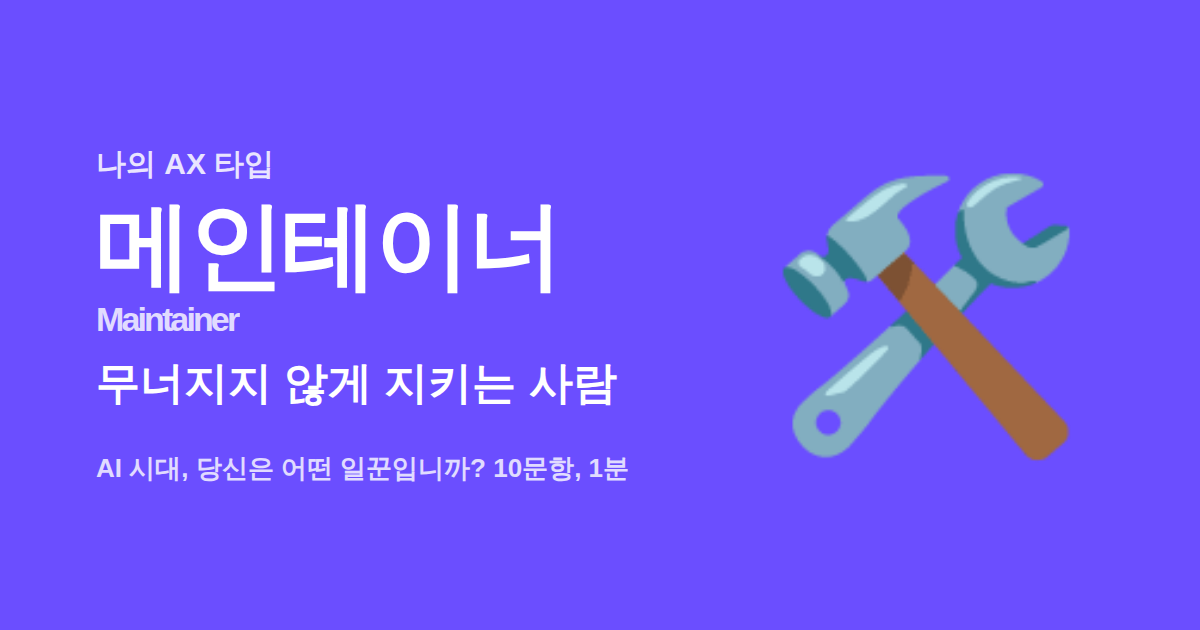
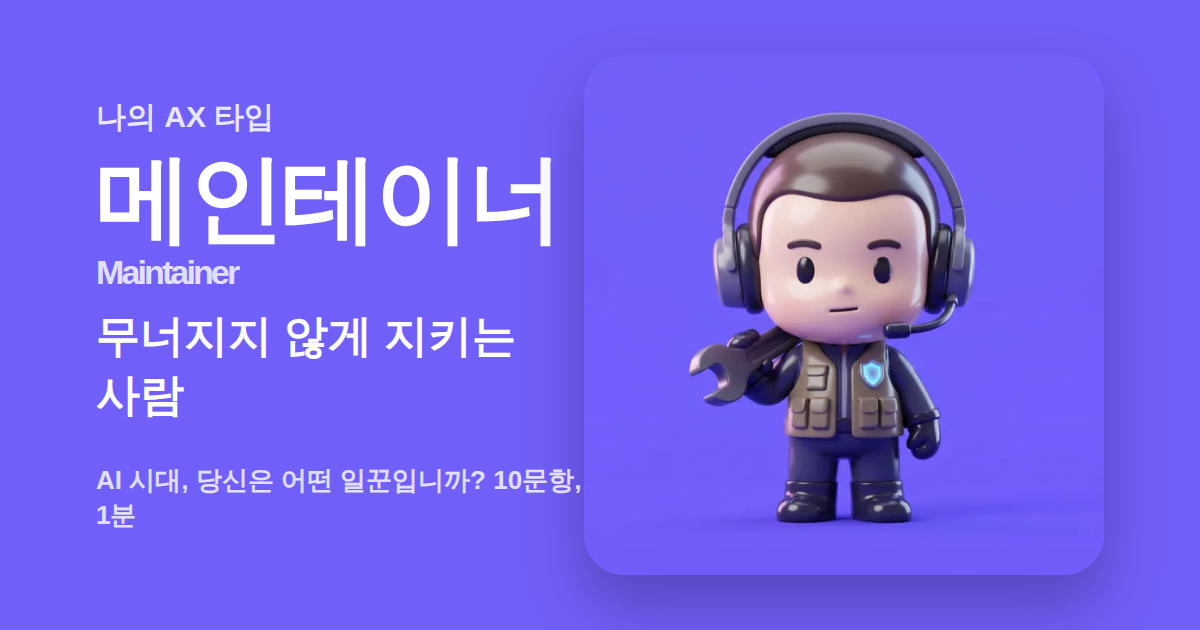
타입별 3D 블라인드 박스 피규어 아트
- assets/<id>.webp 다섯 장(640px). 랜딩 라인업, 결과·공유받은 카드, 저장 카드, OG 이미지에 적용. 기본 OG 는 다섯 장 나열
- data.js 타입 색을 각 이미지의 배경 샘플값으로 교체해 카드와 캐릭터가 한 장으로 이어지게
- check 가 assets/<id>.webp 존재를 확인. 생성 프롬프트·모델·전송 방법은 findings.md, 비주얼 원칙은 docs/DESIGN.md
- 디자인 캔버스 아트보드에 이미지와 새 색 반영

Claude-Session: https://claude.ai/code/session_012pQtpcVuTUKzRw19cfW1pU

Changed region(s): [[0.0617, 0.181, 0.9558, 0.9952], [0.0617, 0.1508, 0.2467, 0.2111]]

diff --git a/design/Main.dc.html b/design/Main.dc.html
@@ -18,7 +18,7 @@
 
   <section style="border-radius: 18px; padding: 28px 24px 24px; background: {{accent}}; color: #1a1200; display: flex; flex-direction: column; gap: 6px;">
     <p style="font-size: 13px; font-weight: 700; opacity: 0.85;">나의 AX 타입</p>
-    <div style="font-size: 64px; line-height: 1; margin: 6px 0 4px;">💡</div>
+    <img src="prototyper.webp" alt="프로토타이퍼 피규어" style="width: 100%; max-width: 300px; aspect-ratio: 1; align-self: center; border-radius: 20px; display: block; margin: 4px 0 10px;">
     <h1 style="font-size: 34px; font-weight: 900; letter-spacing: -0.02em; line-height: 1.25;">프로토타이퍼<span style="font-size: 16px; font-weight: 700; opacity: 0.8; margin-left: 6px;">Prototyper</span></h1>
     <p style="font-size: 20px; font-weight: 700; line-height: 1.25;">아이디어를 찍어내는 사람</p>
     <p style="font-size: 15px; opacity: 0.92; margin-top: 8px; word-break: keep-all;">당신에게 가장 비싼 건 시간이 아니라, 시도하지 않은 아이디어입니다.</p>
@@ -79,22 +79,22 @@
       </div>
       <div style="display: grid; grid-template-columns: 112px 1fr 36px; align-items: center; gap: 10px; font-size: 13px; font-weight: 700;">
         <span>📈 그로워</span>
-        <div style="height: 8px; background: #f6f5f1; border-radius: 999px; overflow: hidden;"><div style="height: 8px; width: 20%; background: #E5397B; border-radius: 999px;"></div></div>
+        <div style="height: 8px; background: #f6f5f1; border-radius: 999px; overflow: hidden;"><div style="height: 8px; width: 20%; background: #EE447C; border-radius: 999px;"></div></div>
         <span style="text-align: right; color: #6b6b76; font-weight: 500;">20%</span>
       </div>
       <div style="display: grid; grid-template-columns: 112px 1fr 36px; align-items: center; gap: 10px; font-size: 13px; font-weight: 700;">
         <span>🚀 빌더</span>
-        <div style="height: 8px; background: #f6f5f1; border-radius: 999px; overflow: hidden;"><div style="height: 8px; width: 17%; background: #2F6BFF; border-radius: 999px;"></div></div>
+        <div style="height: 8px; background: #f6f5f1; border-radius: 999px; overflow: hidden;"><div style="height: 8px; width: 17%; background: #306EFE; border-radius: 999px;"></div></div>
         <span style="text-align: right; color: #6b6b76; font-weight: 500;">17%</span>
       </div>
       <div style="display: grid; grid-template-columns: 112px 1fr 36px; align-items: center; gap: 10px; font-size: 13px; font-weight: 700;">
         <span>🧹 스위퍼</span>
-        <div style="height: 8px; background: #f6f5f1; border-radius: 999px; overflow: hidden;"><div style="height: 8px; width: 13%; background: #16A34A; border-radius: 999px;"></div></div>
+        <div style="height: 8px; background: #f6f5f1; border-radius: 999px; overflow: hidden;"><div style="height: 8px; width: 13%; background: #1E994F; border-radius: 999px;"></div></div>
         <span style="text-align: right; color: #6b6b76; font-weight: 500;">13%</span>
       </div>
       <div style="display: grid; grid-template-columns: 112px 1fr 36px; align-items: center; gap: 10px; font-size: 13px; font-weight: 700;">
         <span>🛠 메인테이너</span>
-        <div style="height: 8px; background: #f6f5f1; border-radius: 999px; overflow: hidden;"><div style="height: 8px; width: 3%; background: #6B4EFF; border-radius: 999px;"></div></div>
+        <div style="height: 8px; background: #f6f5f1; border-radius: 999px; overflow: hidden;"><div style="height: 8px; width: 3%; background: #715FF9; border-radius: 999px;"></div></div>
         <span style="text-align: right; color: #6b6b76; font-weight: 500;">3%</span>
       </div>
     </div>
@@ -105,10 +105,10 @@
   <p style="font-size: 12px; color: #6b6b76;">재미로 보는 테스트입니다. 5가지 아키타입 출처: <a href="#">Boris Cherny, X (2026-06)</a></p>
 </div>
 </x-dc>
-<script data-dc-script data-props='{"accent":{"editor":"color","default":"#F5B301","options":["#F5B301","#2F6BFF","#16A34A","#E5397B","#6B4EFF"],"section":"타입 색"},"$preview":{"width":390,"height":1960}}'>
+<script data-dc-script data-props='{"accent":{"editor":"color","default":"#DF950D","options":["#DF950D","#306EFE","#1E994F","#EE447C","#715FF9"],"section":"타입 색"},"$preview":{"width":390,"height":1960}}'>
 class Component extends DCLogic {
   renderVals() {
-    return { accent: this.props.accent ?? '#F5B301' };
+    return { accent: this.props.accent ?? '#DF950D' };
   }
 }
 </script>

diff --git a/design/Landing.dc.html b/design/Landing.dc.html
@@ -19,12 +19,12 @@
   <h1 style="font-size: 40px; font-weight: 900; letter-spacing: -0.02em; line-height: 1.25;">AX 타입 테스트</h1>
   <p style="font-size: 18px; font-weight: 700;">AI 시대, 당신은 어떤 일꾼입니까?</p>
   <p style="color: #6b6b76; font-size: 15px; word-break: keep-all;">Claude Code를 만든 Boris Cherny가 말한 5가지 아키타입. 10문항, 1분.</p>
-  <div style="display: flex; flex-wrap: wrap; gap: 8px;">
-    <span style="display: inline-flex; align-items: center; gap: 6px; padding: 8px 12px; border-radius: 999px; background: #ffffff; border: 1px solid #e6e4dd; font-size: 14px; font-weight: 700;">💡 프로토타이퍼</span>
-    <span style="display: inline-flex; align-items: center; gap: 6px; padding: 8px 12px; border-radius: 999px; background: #ffffff; border: 1px solid #e6e4dd; font-size: 14px; font-weight: 700;">🚀 빌더</span>
-    <span style="display: inline-flex; align-items: center; gap: 6px; padding: 8px 12px; border-radius: 999px; background: #ffffff; border: 1px solid #e6e4dd; font-size: 14px; font-weight: 700;">🧹 스위퍼</span>
-    <span style="display: inline-flex; align-items: center; gap: 6px; padding: 8px 12px; border-radius: 999px; background: #ffffff; border: 1px solid #e6e4dd; font-size: 14px; font-weight: 700;">📈 그로워</span>
-    <span style="display: inline-flex; align-items: center; gap: 6px; padding: 8px 12px; border-radius: 999px; background: #ffffff; border: 1px solid #e6e4dd; font-size: 14px; font-weight: 700;">🛠 메인테이너</span>
+  <div style="display: grid; grid-template-columns: repeat(5, minmax(0, 1fr)); gap: 8px;">
+    <figure style="margin: 0; display: flex; flex-direction: column; align-items: center; gap: 6px;"><img src="prototyper.webp" alt="프로토타이퍼 피규어" style="width: 100%; aspect-ratio: 1; border-radius: 16px; display: block; box-shadow: 0 6px 18px rgba(0,0,0,0.10);"><figcaption style="font-size: 11px; font-weight: 700; color: #6b6b76; white-space: nowrap;">💡 프로토타이퍼</figcaption></figure>
+    <figure style="margin: 0; display: flex; flex-direction: column; align-items: center; gap: 6px;"><img src="builder.webp" alt="빌더 피규어" style="width: 100%; aspect-ratio: 1; border-radius: 16px; display: block; box-shadow: 0 6px 18px rgba(0,0,0,0.10);"><figcaption style="font-size: 11px; font-weight: 700; color: #6b6b76; white-space: nowrap;">🚀 빌더</figcaption></figure>
+    <figure style="margin: 0; display: flex; flex-direction: column; align-items: center; gap: 6px;"><img src="sweeper.webp" alt="스위퍼 피규어" style="width: 100%; aspect-ratio: 1; border-radius: 16px; display: block; box-shadow: 0 6px 18px rgba(0,0,0,0.10);"><figcaption style="font-size: 11px; font-weight: 700; color: #6b6b76; white-space: nowrap;">🧹 스위퍼</figcaption></figure>
+    <figure style="margin: 0; display: flex; flex-direction: column; align-items: center; gap: 6px;"><img src="grower.webp" alt="그로워 피규어" style="width: 100%; aspect-ratio: 1; border-radius: 16px; display: block; box-shadow: 0 6px 18px rgba(0,0,0,0.10);"><figcaption style="font-size: 11px; font-weight: 700; color: #6b6b76; white-space: nowrap;">📈 그로워</figcaption></figure>
+    <figure style="margin: 0; display: flex; flex-direction: column; align-items: center; gap: 6px;"><img src="maintainer.webp" alt="메인테이너 피규어" style="width: 100%; aspect-ratio: 1; border-radius: 16px; display: block; box-shadow: 0 6px 18px rgba(0,0,0,0.10);"><figcaption style="font-size: 11px; font-weight: 700; color: #6b6b76; white-space: nowrap;">🛠 메인테이너</figcaption></figure>
   </div>
   <div style="display: flex; align-items: center; justify-content: center; padding: 16px 20px; border-radius: 14px; background: #16161a; color: #ffffff; font-size: 17px; font-weight: 700;">테스트 시작 →</div>
   <p style="font-size: 12px; color: #6b6b76;">재미로 보는 테스트입니다. 5가지 아키타입 출처: <a href="#">Boris Cherny, X (2026-06)</a></p>

diff --git a/app.js b/app.js
@@ -8,6 +8,7 @@ const typeOf = (id) => (Object.hasOwn(byId, id) ? byId[id] : null);
 // 배포 경로에 상관없이 동작하도록 현재 주소에서 기준 경로를 얻는다. (예: https://host/AXTYPE/)
 const BASE = location.origin + location.pathname.replace(/[^/]*$/, '');
 const resultUrl = (id) => `${BASE}r/${id}/`;
+const artUrl = (id) => `assets/${id}.webp`; // 타입별 캐릭터. 파일명은 타입 id 로 정해진다
 
 const state = { answers: [] };
 
@@ -37,8 +38,8 @@ function landing() {
       <h1>${esc(SITE.name)}</h1>
       <p class="lead">${esc(SITE.tagline)}</p>
       <p class="desc">${esc(SITE.description)}</p>
-      <div class="chips">
-        ${TYPES.map((t) => `<span class="chip">${t.emoji} ${esc(t.ko)}</span>`).join('')}
+      <div class="lineup">
+        ${TYPES.map((t) => `<figure class="figure"><img src="${artUrl(t.id)}" alt="${esc(t.ko)} 피규어" loading="lazy"><figcaption>${t.emoji} ${esc(t.ko)}</figcaption></figure>`).join('')}
       </div>
       <button class="btn" id="start">테스트 시작 →</button>
       <p class="footnote">재미로 보는 테스트입니다. 5가지 아키타입 출처: <a href="${SITE.source.url}" target="_blank" rel="noopener">${esc(SITE.source.label)}</a></p>
@@ -81,7 +82,7 @@ function typeCard(t, { label, sub } = {}) {
   return `
     <section class="result-card" data-ink="${dark ? 'dark' : 'light'}" style="--type-color:${t.color};--type-ink:${t.ink}">
       <p class="label">${esc(label)}</p>
-      <div class="emoji">${t.emoji}</div>
+      <img class="art" src="${artUrl(t.id)}" alt="${esc(t.ko)} 피규어">
       <h1 class="name">${esc(t.ko)}<small>${esc(t.en)}</small></h1>
       <p class="headline">${esc(t.headline)}</p>
       <p class="tagline">${esc(t.tagline)}</p>
@@ -177,7 +178,13 @@ function shared(t) {
 }
 
 /* ---------- 결과 카드 이미지 (1080×1350, 4:5) ---------- */
-function saveCard(main, sub) {
+function loadArt(id) {
+  return new Promise((ok, no) => { const im = new Image(); im.onload = () => ok(im); im.onerror = no; im.src = artUrl(id); });
+}
+
+async function saveCard(main, sub) {
+  let art = null;
+  try { art = await loadArt(main.id); } catch { /* 아트가 없으면 이모지로 */ }
   const W = 1080, H = 1350;
   const c = document.createElement('canvas');
   c.width = W; c.height = H;
@@ -191,34 +198,39 @@ function saveCard(main, sub) {
   ctx.textAlign = 'center';
   ctx.font = font(700, 36);
   ctx.globalAlpha = .85;
-  ctx.fillText('나의 AX 타입', W / 2, 190);
+  ctx.fillText('나의 AX 타입', W / 2, 160);
   ctx.globalAlpha = 1;
 
-  ctx.font = font(400, 260);
-  ctx.fillText(main.emoji, W / 2, 520);
+  if (art) {
+    const size = 560;
+    ctx.drawImage(art, (W - size) / 2, 230, size, size);
+  } else {
+    ctx.font = font(400, 260);
+    ctx.fillText(main.emoji, W / 2, 520);
+  }
 
   ctx.font = font(900, 104);
-  ctx.fillText(main.ko, W / 2, 690);
+  ctx.fillText(main.ko, W / 2, 900);
   ctx.font = font(700, 40);
   ctx.globalAlpha = .8;
-  ctx.fillText(main.en, W / 2, 750);
+  ctx.fillText(main.en, W / 2, 960);
   ctx.globalAlpha = 1;
 
   ctx.font = font(700, 54);
-  ctx.fillText(main.headline, W / 2, 870);
+  ctx.fillText(main.headline, W / 2, 1050);
 
   if (sub) {
     ctx.font = font(700, 36);
     ctx.globalAlpha = .9;
-    ctx.fillText(`서브 타입 · ${sub.emoji} ${sub.ko}`, W / 2, 960);
+    ctx.fillText(`서브 타입 · ${sub.emoji} ${sub.ko}`, W / 2, 1120);
     ctx.globalAlpha = 1;
   }
 
   ctx.font = font(700, 34);
   ctx.globalAlpha = .85;
-  ctx.fillText(SITE.tagline, W / 2, 1190);
+  ctx.fillText(SITE.tagline, W / 2, 1230);
   ctx.font = font(400, 30);
-  ctx.fillText(BASE.replace(/^https?:\/\//, '').replace(/\/$/, ''), W / 2, 1250);
+  ctx.fillText(BASE.replace(/^https?:\/\//, '').replace(/\/$/, ''), W / 2, 1285);
   ctx.globalAlpha = 1;
 
   c.toBlob((blob) => {

diff --git a/data.js b/data.js
@@ -17,13 +17,14 @@ export const SITE = {
 };
 
 // 순서는 제품 수명주기 순: 아이디어 → 출시 → 정리 → 성장 → 운영.
+// color 는 assets/<id>.webp 의 배경색과 같아야 카드와 캐릭터가 한 장처럼 보인다. 아트를 다시 만들면 여기도 맞춘다.
 export const TYPES = [
   {
     id: 'prototyper',
     en: 'Prototyper',
     ko: '프로토타이퍼',
     emoji: '💡',
-    color: '#F5B301',
+    color: '#DF950D',
     ink: '#1a1200',
     headline: '아이디어를 찍어내는 사람',
     tagline: '당신에게 가장 비싼 건 시간이 아니라, 시도하지 않은 아이디어입니다.',
@@ -44,7 +45,7 @@ export const TYPES = [
     en: 'Builder',
     ko: '빌더',
     emoji: '🚀',
-    color: '#2F6BFF',
+    color: '#306EFE',
     ink: '#ffffff',
     headline: '아이디어를 진짜로 만드는 사람',
     tagline: '프로토타입과 제품 사이의 거리를 당신이 가장 빨리 지웁니다.',
@@ -65,7 +66,7 @@ export const TYPES = [
     en: 'Sweeper',
     ko: '스위퍼',
     emoji: '🧹',
-    color: '#16A34A',
+    color: '#1E994F',
     ink: '#ffffff',
     headline: '덜어내서 좋아지게 만드는 사람',
     tagline: '당신에게 최고의 결과물은 더한 것보다 뺀 것이 많은 결과물입니다.',
@@ -86,7 +87,7 @@ export const TYPES = [
     en: 'Grower',
     ko: '그로워',
     emoji: '📈',
-    color: '#E5397B',
+    color: '#EE447C',
     ink: '#ffffff',
     headline: '만든 걸 사랑받게 만드는 사람',
     tagline: '출시는 끝이 아니라, 당신의 시작입니다.',
@@ -107,7 +108,7 @@ export const TYPES = [
     en: 'Maintainer',
     ko: '메인테이너',
     emoji: '🛠',
-    color: '#6B4EFF',
+    color: '#715FF9',
     ink: '#ffffff',
     headline: '무너지지 않게 지키는 사람',
     tagline: '아무 일도 안 일어난 하루가, 당신이 가장 잘한 날입니다.',

diff --git a/design/Shared.dc.html b/design/Shared.dc.html
@@ -16,9 +16,9 @@
 </helmet>
 <div style="width: 390px; min-height: 844px; background: #f6f5f1; padding: 24px 20px 56px; box-sizing: border-box; display: flex; flex-direction: column; gap: 20px;">
 
-  <section style="border-radius: 18px; padding: 28px 24px 24px; background: #16A34A; color: #ffffff; display: flex; flex-direction: column; gap: 6px;">
+  <section style="border-radius: 18px; padding: 28px 24px 24px; background: #1E994F; color: #ffffff; display: flex; flex-direction: column; gap: 6px;">
     <p style="font-size: 13px; font-weight: 700; opacity: 0.85;">공유받은 AX 타입</p>
-    <div style="font-size: 64px; line-height: 1; margin: 6px 0 4px;">🧹</div>
+    <img src="sweeper.webp" alt="스위퍼 피규어" style="width: 100%; max-width: 300px; aspect-ratio: 1; align-self: center; border-radius: 20px; display: block; margin: 4px 0 10px;">
     <h1 style="font-size: 34px; font-weight: 900; letter-spacing: -0.02em; line-height: 1.25;">스위퍼<span style="font-size: 16px; font-weight: 700; opacity: 0.8; margin-left: 6px;">Sweeper</span></h1>
     <p style="font-size: 20px; font-weight: 700; line-height: 1.25;">덜어내서 좋아지게 만드는 사람</p>
     <p style="font-size: 15px; opacity: 0.92; margin-top: 8px; word-break: keep-all;">당신에게 최고의 결과물은 더한 것보다 뺀 것이 많은 결과물입니다.</p>

diff --git a/style.css b/style.css
@@ -44,6 +44,11 @@ button { font: inherit; cursor: pointer; }
 .hero .lead { font-size: 18px; font-weight: 700; }
 .hero .desc { color: var(--muted); font-size: 15px; }
 
+.lineup { display: grid; grid-template-columns: repeat(5, minmax(0, 1fr)); gap: 8px; }
+.figure { margin: 0; display: flex; flex-direction: column; align-items: center; gap: 6px; }
+.figure img { width: 100%; aspect-ratio: 1; border-radius: 16px; display: block; box-shadow: 0 6px 18px rgba(0,0,0,.10); }
+.figure figcaption { font-size: 11px; font-weight: 700; color: var(--muted); white-space: nowrap; }
+
 .chips { display: flex; flex-wrap: wrap; gap: 8px; }
 .chip {
   display: inline-flex; align-items: center; gap: 6px;
@@ -98,6 +103,7 @@ button { font: inherit; cursor: pointer; }
 }
 .result-card .label { font-size: 13px; font-weight: 700; opacity: .85; }
 .result-card .emoji { font-size: 64px; line-height: 1; margin: 6px 0 4px; }
+.result-card .art { width: 100%; max-width: 300px; aspect-ratio: 1; align-self: center; border-radius: 20px; display: block; margin: 4px 0 10px; filter: drop-shadow(0 12px 24px rgba(0,0,0,.18)); }
 .result-card .name { font-size: 34px; font-weight: 900; letter-spacing: -.02em; }
 .result-card .name small { font-size: 16px; font-weight: 700; opacity: .8; margin-left: 6px; }
 .result-card .headline { font-size: 20px; font-weight: 700; }

diff --git a/design/OGCard.dc.html b/design/OGCard.dc.html
@@ -14,7 +14,7 @@
     p { margin: 0; }
   </style>
 </helmet>
-<div style="width: 1200px; height: 630px; background: #F5B301; color: #1a1200; padding: 0 96px; box-sizing: border-box; display: flex; align-items: center; justify-content: space-between;">
+<div style="width: 1200px; height: 630px; background: #DF950D; color: #1a1200; padding: 0 96px; box-sizing: border-box; display: flex; align-items: center; justify-content: space-between;">
   <div style="display: flex; flex-direction: column; gap: 10px; max-width: 760px;">
     <p style="font-size: 30px; font-weight: 700; opacity: 0.85;">나의 AX 타입</p>
     <p style="font-size: 96px; font-weight: 900; letter-spacing: -0.03em; line-height: 1.05;">프로토타이퍼</p>
@@ -22,7 +22,7 @@
     <p style="font-size: 44px; font-weight: 700; margin-top: 6px; word-break: keep-all;">아이디어를 찍어내는 사람</p>
     <p style="font-size: 26px; font-weight: 700; opacity: 0.8; margin-top: 28px;">AI 시대, 당신은 어떤 일꾼입니까? 10문항, 1분</p>
   </div>
-  <div style="font-size: 260px; line-height: 1; flex-shrink: 0;">💡</div>
+  <img src="prototyper.webp" alt="프로토타이퍼 피규어" style="width: 520px; height: 520px; border-radius: 40px; flex-shrink: 0; box-shadow: 0 30px 60px rgba(0,0,0,0.25);">
 </div>
 </x-dc>
 </body>

diff --git a/design/ShareCard.dc.html b/design/ShareCard.dc.html
@@ -14,10 +14,10 @@
     p { margin: 0; }
   </style>
 </helmet>
-<div style="width: 1080px; height: 1350px; background: #2F6BFF; color: #ffffff; box-sizing: border-box; padding: 150px 80px 90px; display: flex; flex-direction: column; align-items: center; justify-content: space-between; text-align: center;">
+<div style="width: 1080px; height: 1350px; background: #306EFE; color: #ffffff; box-sizing: border-box; padding: 150px 80px 90px; display: flex; flex-direction: column; align-items: center; justify-content: space-between; text-align: center;">
   <div style="display: flex; flex-direction: column; align-items: center; gap: 24px;">
     <p style="font-size: 36px; font-weight: 700; opacity: 0.85;">나의 AX 타입</p>
-    <div style="font-size: 260px; line-height: 1;">🚀</div>
+    <img src="builder.webp" alt="빌더 피규어" style="width: 560px; height: 560px; border-radius: 40px; display: block;">
     <div style="display: flex; flex-direction: column; align-items: center; gap: 4px;">
       <p style="font-size: 104px; font-weight: 900; letter-spacing: -0.02em; line-height: 1.1;">빌더</p>
       <p style="font-size: 40px; font-weight: 700; opacity: 0.8;">Builder</p>

diff --git a/progress.md b/progress.md
@@ -64,6 +64,24 @@
 - `data.js`, `app.js`, `scripts/build.mjs`, `scripts/check.mjs`, `docs/DESIGN.md`, `findings.md`, `tasks.md`, `README.md`, `CLAUDE.md`, `.gitignore`
 - `design/{Main,Landing,Question,Shared,OGCard,ShareCard}.dc.html`, `design/canvas.json`
 
+## Session 3
+
+### Phase 6: 비주얼 ✅
+
+**작업 내역**:
+
+1. 이미지 생성 모델로 타입별 블라인드 박스 피규어 5장 (프롬프트는 `findings.md`)
+2. 생성 CDN 이 프록시에 막혀 샌드박스에서 640px WebP 로 축소·base64 로 받아 복원, 체크섬 5장 일치
+3. 랜딩(피규어 라인업), 결과·공유받은 카드(캐릭터 300px), 저장 카드(560px), OG(520px, 기본 OG 는 5장 나열)에 적용
+4. 타입 색을 이미지 배경 샘플값으로 교체, 빌드·검증·브라우저 재구동 통과
+5. 디자인 캔버스 아트보드에 이미지 반영
+
+**생성/수정 파일**:
+
+- `assets/{prototyper,builder,sweeper,grower,maintainer}.webp`
+- `data.js`(색), `app.js`, `style.css`, `scripts/build.mjs`, `scripts/check.mjs`, `og/*.png`
+- `design/*.dc.html`, `design/canvas.json`, 문서 5종
+
 ## Test Results
 
 | Test | Input | Expected | Actual | Status |
@@ -82,6 +100,7 @@
 | 콜드 리드 | 세션 밖 리뷰어가 README·DESIGN·CLAUDE·data·app 정독 | 막히는 곳 없음 | minor gaps → 반영 (`findings.md` Learnings) | ✅ |
 | 사실 확인 | `factchk` 양방향 | 모든 주장에 출처 | 문항 수 근거 3건 수정, 나머지 확인됨 | ✅ |
 | 문항 어휘 중립화 후 | `npm run check` + 브라우저 재구동 | 균형 6/6, 분포 유지, 플로우 정상 | 통과 | ✅ |
+| 캐릭터 아트 적용 후 | 빌드·check·브라우저 재구동, 스크린샷 육안 | 카드·OG·저장 이미지에 캐릭터, 배경색 이어짐 | 통과 | ✅ |
 
 ## Error Log
 
@@ -94,7 +113,7 @@
 
 | Question | Answer |
 |---|---|
-| 1. 현재 어느 단계인가? | Phase 5: Delivery — 점검 반영분 푸시됨, 배포와 실측은 사람 몫 |
+| 1. 현재 어느 단계인가? | Phase 5: Delivery — 비주얼(Phase 6)까지 푸시됨, 배포와 실측은 사람 몫 |
 | 2. 다음에 할 일은? | 25명 실측(첫 번째 못) → GitHub Pages 켜기 → Threads 미리보기 확인 → 디자인 캔버스에서 다듬은 것을 `style.css`·`data.js` 로 반영 |
 | 3. 목표는? | Threads 에서 퍼지는 1분짜리 AX 타입 테스트 |
 | 4. 지금까지 배운 것? | `findings.md` Learnings |
